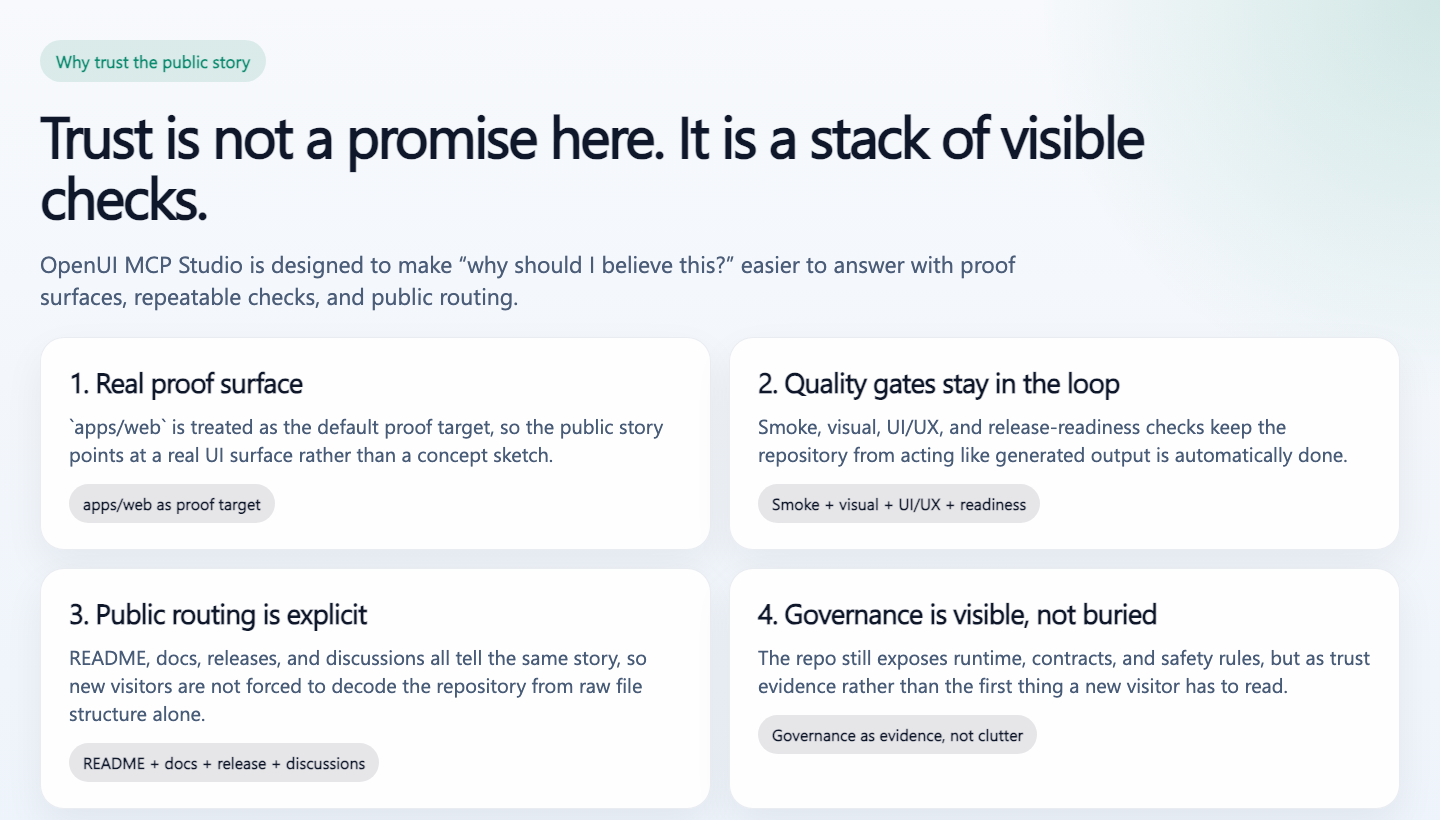
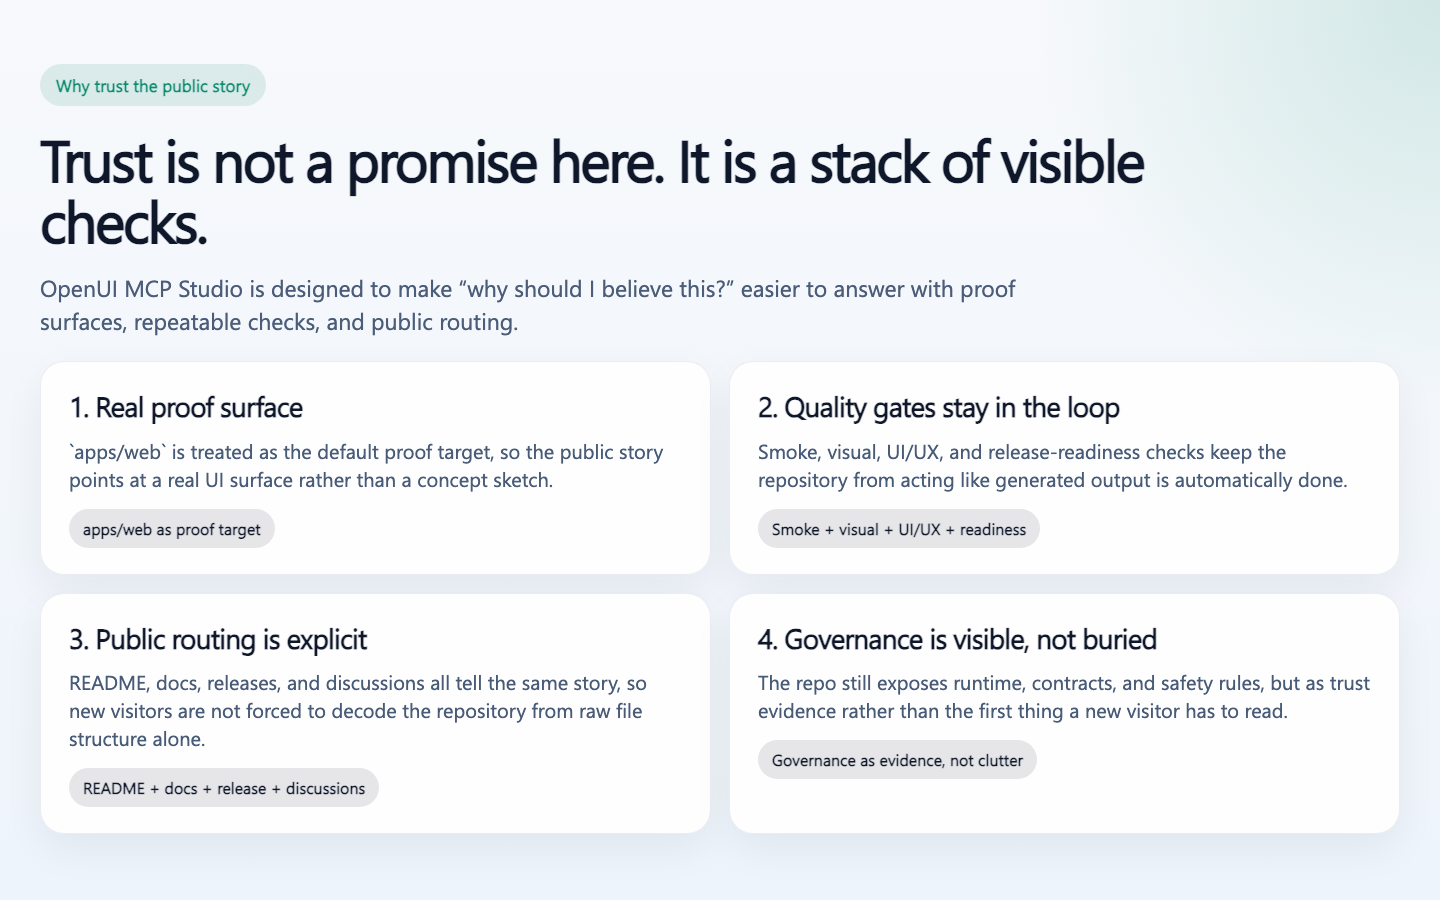
fix(governance): address asset review threads
Pre-commit-hook: passed

diff --git a/docs/assets/openui-mcp-studio-social-preview-source.html b/docs/assets/openui-mcp-studio-social-preview-source.html
@@ -244,7 +244,7 @@
 			</section>
 			<section class="right">
 				<div class="frame">
-					<div class="preview" aria-label="Workbench preview">
+					<div class="preview" role="img" aria-label="Workbench preview">
 						<div class="preview-chip">Product workbench</div>
 						<h2>Brief to reviewed delivery, visible in one flow.</h2>
 						<p class="preview-copy">

diff --git a/docs/assets/openui-mcp-studio-comparison-source.html b/docs/assets/openui-mcp-studio-comparison-source.html
@@ -28,8 +28,8 @@
 
 			.canvas {
 				width: 1440px;
-				min-height: 1300px;
-				height: auto;
+				height: 1300px;
+				overflow: hidden;
 				padding: 42px 88px 46px;
 				display: flex;
 				flex-direction: column;

diff --git a/docs/assets/openui-mcp-studio-trust-stack-source.html b/docs/assets/openui-mcp-studio-trust-stack-source.html
@@ -28,7 +28,8 @@
 
 			.canvas {
 				width: 1440px;
-				min-height: 820px;
+				height: 900px;
+				overflow: hidden;
 				padding: 40px 40px 42px;
 				display: flex;
 				flex-direction: column;
